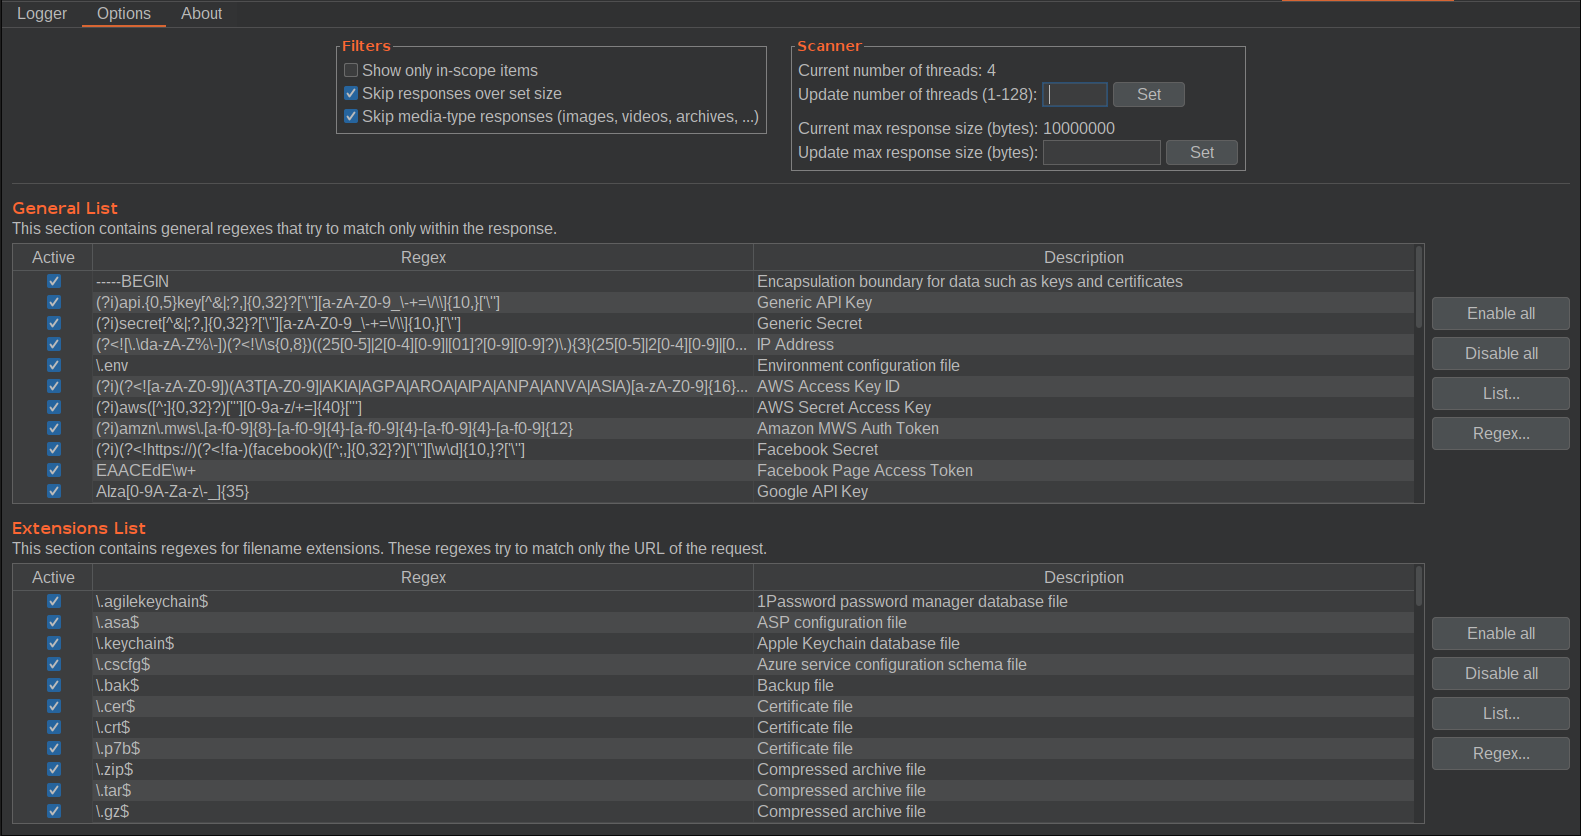
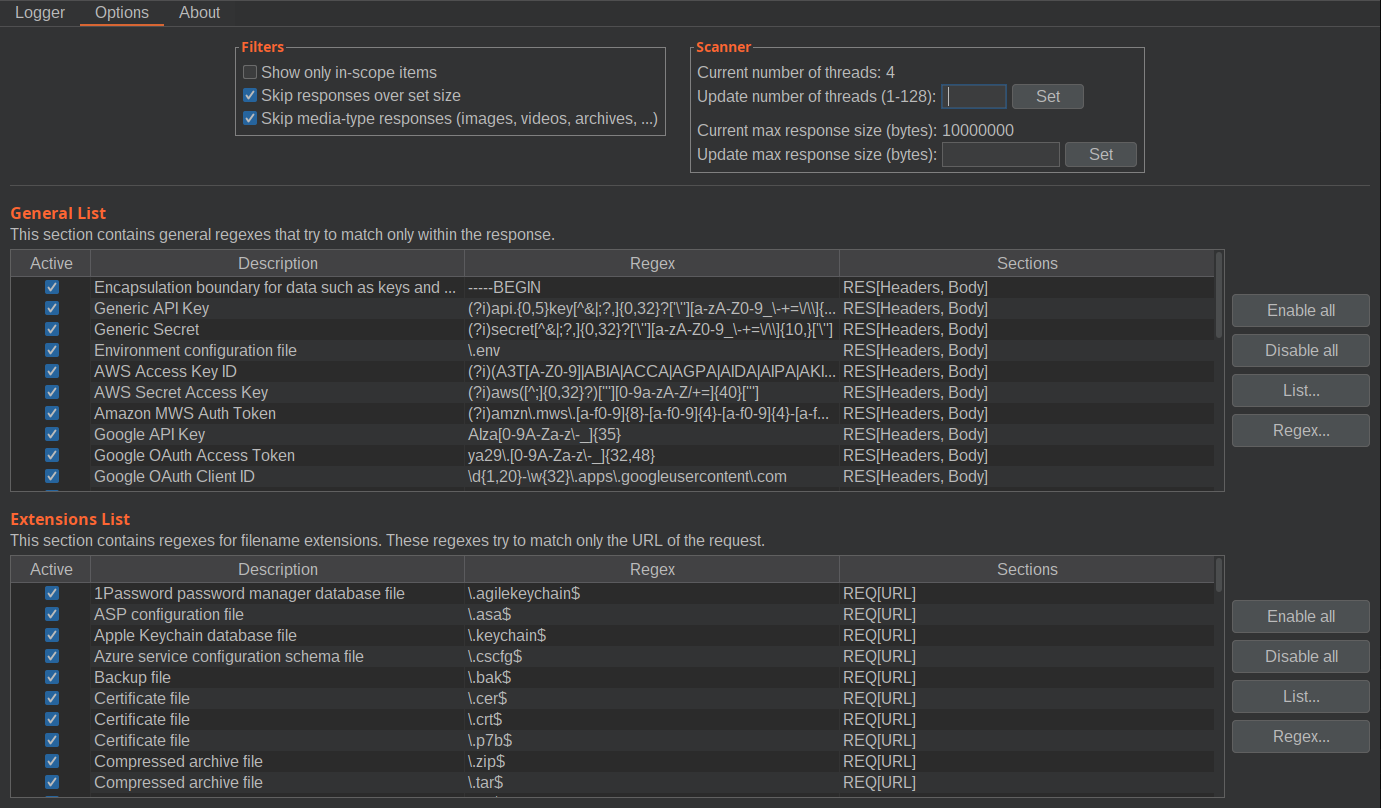
docs(README): new features and screenshots

diff --git a/README.md b/README.md
@@ -8,6 +8,7 @@
     * [Features](#features)
     * [Screenshots](#screenshots)
     * [About the used regexes](#about-the-used-regexes)
+    * [Multi-step regex matching](#multi-step-regex-matching)
   * [Installation](#installation)
     * [Using the BApp Store](#using-the-bapp-store)
     * [Manual install](#manual-install)
@@ -40,6 +41,7 @@ The extension is available with a pre-defined set of Regular Expressions divided
 - Customizable regexes lists
 - Export findings to CSV/JSON files
 - Import/Export regexes lists from CSV/JSON files
+- Multi-step regex matching
 
 ### Screenshots
 
@@ -55,9 +57,9 @@ The **Options tab** where to configure options and filters for the scanner:
 
 We aim to provide a default set of regexes that can be used in as many cases as possible without numerous false positives.
 
-As the source, many regexes are written by us. Any other should have the appropriate mention in the [References](#references) section.
+We write and refine many regexes directly. If external sources are to be credited, they will be mentioned appropriately in the [References](#references) section or directly in the regex lists.
 
-To improve the matching results and reduce the scans time, each HTTP Proxy's message is divided into sections that can be matched independently.
+To improve the matching results and reduce the scan time, each HTTP Proxy's message is divided into sections that can be matched independently.
 As of now, there are five sections:
 
 - Request
@@ -69,8 +71,24 @@ As of now, there are five sections:
   - Response Body
 
 The extension works with two lists of regexes.
-One list is for general regexes, which only match within the Response sections;
-The other is for filename extensions and only match against the Request URL.
+One list is for general regexes, which, by default, only match within the Response sections;
+The other is for filename extensions and, by default, only matches against the Request URL.
+
+### Multi-step regex matching
+
+This extension supports adding a second regex to refine the match without degrading performances.
+Suppose we want to match all bucket URLs of some object storage provider, such as AWS S3 Buckets.
+These URLs all have a common suffix, for example, "s3.amazonaws.com", and an arbitrary bucket name in front.
+
+With a single regex, you can't first match the suffix and only then the bucket name.
+You can write a fast regex that only matches the suffix or a really slow one that matches everything, such as with `\w+\.s3\.amazonaws\.com`.
+The problem is in matching from left to right. When `\w+` comes first, almost everything is matched, resulting in a really slow regex.
+The alternative of matching only the suffix is fast, but doesn't show us the bucket name in the results.
+
+Our approach introduces a "Refiner Regex" that's only applied after the main regex has matched.
+This refiner regex is applied on a small region before the match. By default, this region size is set to 64 bytes.
+With this feature, we can trivially solve the previous problem using `s3\.amazonaws\.com` as the main regex and
+`\w*\.` as the refiner regex. This feature reduces scan times while also producing valuable matches.
 
 ## Installation
 
@@ -131,11 +149,18 @@ Both `CSV` and `JSON` files with their respective extensions are supported.
   ]
   ```
 
-Regexes must be compliant with the Java's Regexes Style. If in doubt, use [regex101](https://regex101.com/) with the `Java 8` flavour to test regexes.
+> [!IMPORTANT]  
+> Regexes must be compliant with Java's Regexes Style. If in doubt, use [regex101](https://regex101.com/) with the `Java 8` flavour to test regexes.
+
+> [!NOTE]
+> Importing a regex list in this limited format will result in the default section of `res` to be used for all regexes.
+Additionally, there will be no refiner regex. 
 
 ### Importing Lists - Advanced
 
-In the lists it's also possible to specify the sections that the regexes should match. If no section is specified, by default `all` sections are used.
+In the lists, it's also possible to specify the refiner regex and the sections the regexes should match.
+If no section is specified, no sections are going to be enabled.
+If no refiner regex is specified, no refiner regex will be used.
 
 Each HTTP item composed of a request and a response is divided into the following matchable sections:
 
@@ -156,8 +181,8 @@ To specify the sections to match use the following format:
 - For **CSV** files, add a `sections` column and for each row add the list of sections to be matched as a string with sections delimited by the character `|`:
 
   ```csv
-  "description","regex","sections"
-  "Google e-mail","\w+@gmail.com","req|res_body"
+  "description","regex","refinerRegex","sections"
+  "Google e-mail","@gmail\.com","\w+$","req|res_body"
   ```
   
 - For **JSON** files, add a `sections` field containing the array of sections to be matched as strings:
@@ -166,7 +191,8 @@ To specify the sections to match use the following format:
   [
     {
       "description": "Google e-mail",
-      "regex": "\\w+@gmail.com",
+      "regex": "@gmail\\.com",
+      "refinerRegex": "\\w+$",
       "sections": [ "req", "res_body" ]
     }
   ]
@@ -196,3 +222,5 @@ The following is a list of sources for some regexes used in this extension. Many
 
 - https://github.com/eth0izzle/shhgit
 - https://github.com/streaak/keyhacks
+
+Additional references are kept directly in the regexes lists files.
